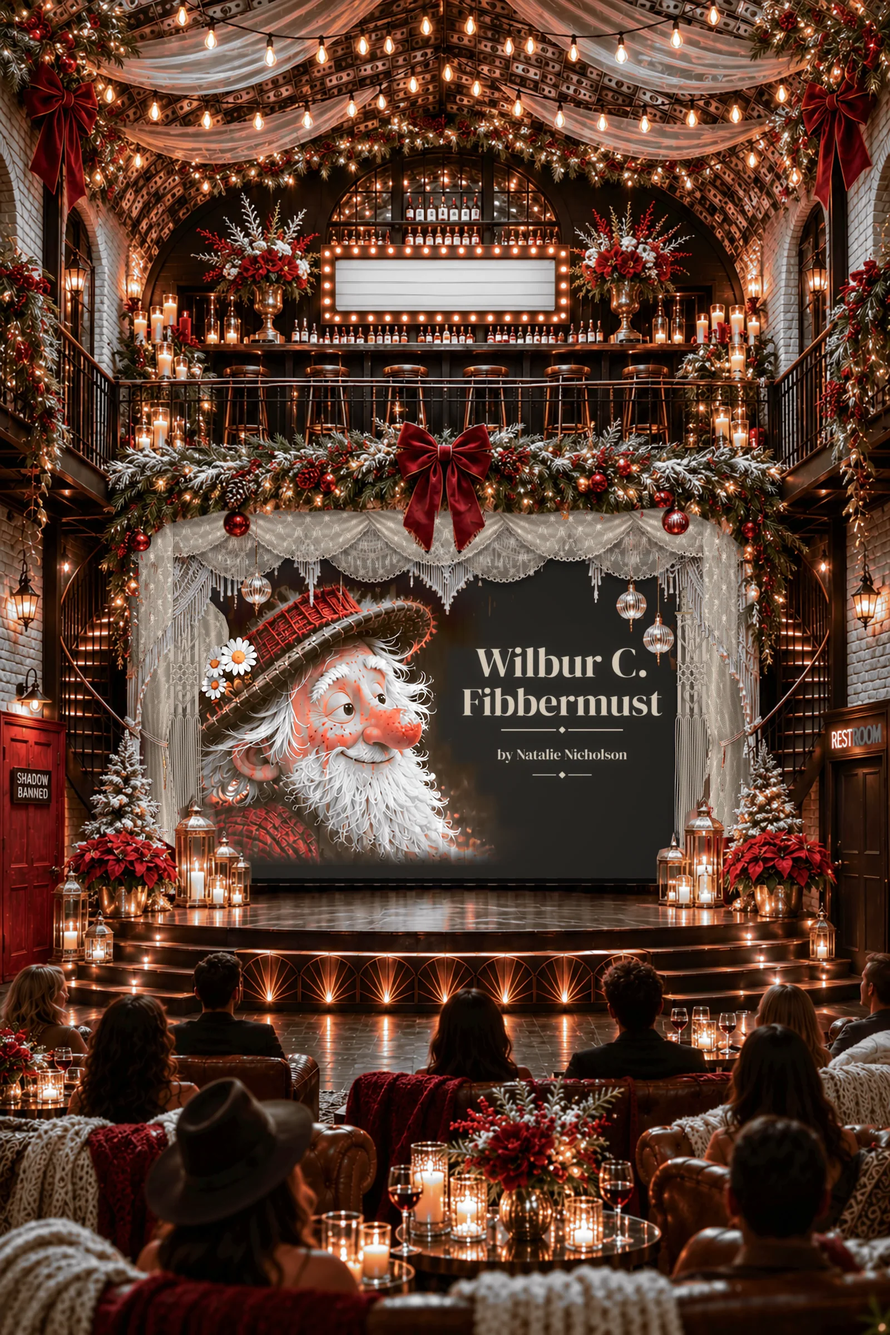
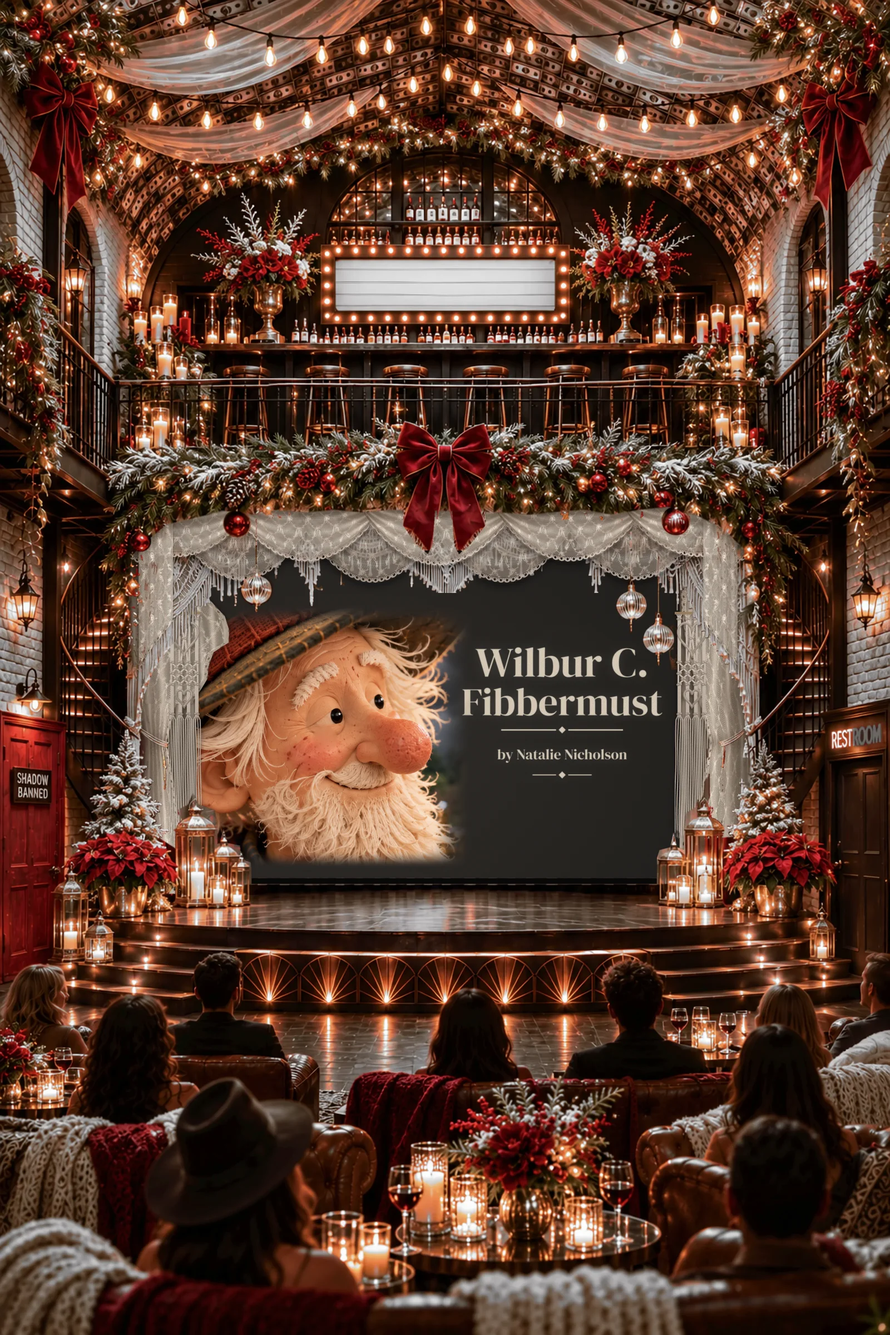
THE SPEAK: the film's real Wilbur on the theater screen (clay still, old framing, lace kept)

Changed region(s): [[0.2188, 0.4375, 0.5625, 0.6562]]

diff --git a/speakeasy/index.html b/speakeasy/index.html
@@ -429,7 +429,8 @@ dialog.pop::backdrop { background: transparent; }
 <p class="cue label" id="pcue" aria-hidden="true">Walk the passage</p>
 
 <!-- 2 · THE HALL, THEATER MODE (Nov 21, holiday render v2): a cinema screen under the valance, Natalie Nicholson's film on it.
-     The picture is hall-theater-*.webp (made by tools/speak-faces/theater_hall.py, then dressed in lace by lace_stage.py, Nov 22);
+     The picture is hall-theater-*.webp (made by tools/speak-faces/theater_hall.py, then dressed in lace by lace_stage.py, Nov 22;
+     the film's real Wilbur put on the screen by wilbur_screen.py, Nov 23);
      the podcast's picture, hall-*.webp, is kept to switch back.
      Everything placed on it (lamps, marquee board, neon, the spots) is in percentages of the picture, measured on it. -->
 <main class="hall" id="room-hall" hidden aria-label="THE SPEAK, in theater mode, dressed for the holidays: an underground hall under a brick vault papered in banknotes, swagged with cream muslin, strung with Edison bulbs and garlands of pine, with big red velvet bows. Up on the balcony, the bar with its stools, bottles and candles, the marquee above it. Along the balcony rail, a garland of frosted pine with red baubles, pinecones, tiny lights and a great red bow; under it, two tiers of cream lace swags with scalloped edges, lace tails falling down both corners, the fringe of a macramé valance and glass baubles hanging, cream lace drapes tied back over a soft sheer, a macramé panel of knotted hearts and long fringe lining each edge, and a cinema screen in a black frame. On the screen, a title card: a bearded old man in a straw hat with a daisy, and the title Wilbur C. Fibbermust, by Natalie Nicholson. Brass lanterns with candles at the screen's feet, little snowy Christmas trees and poinsettias either side. In front, a sunken pit: an audience in silhouette on chesterfield couches with knitted throws, around a brass table of candles and red flowers, watching. Either side of the pit, under a brass wall lamp each: at the left a crimson door with a black plaque reading SHADOW BANNED in white, at the right a black door under a neon sign reading RESTROOM, only its REST lit, flickering.">

diff --git a/tools/speak-faces/wilbur_screen.py b/tools/speak-faces/wilbur_screen.py
@@ -1,0 +1,170 @@
+"""THE SPEAK, THEATER MODE: the real Wilbur on the cinema screen (Nov 23, 2026).
+The stage designer painted their own Wilbur onto the curtain; Kathi sent a still from Natalie Nicholson's film, and
+the screen should show Wilbur exactly as he is there. Only the screen's picture changes: the title, the lace, the
+macrame, the baubles and lanterns hanging in front, and the rest of the hall are kept exactly as they are live.
+  1. the still, play button taken off (unplay.py), set where the old Wilbur sat: left of the title, his nose stopping
+     short of it, in a soft oval that fades into the same deep warm charcoal ground the screen already uses
+     (screen.py's ground, same formula and grain, so the card around him is unchanged)
+  2. the title set again on top exactly as before (title.py, project), with theater_hall.py's v2 measurements;
+     the valance's fringe, the hand-traced baubles, strings and lanterns are kept in front, as theater_hall.py did.
+     The fringe is only kept ABOVE where the old painted hat began (the thread finder also catches the old hat's
+     stitching and daisies lower down, which must go)
+  3. all of that is done on the Nov 21 picture (before the lace), and then the lace stage is laid on again exactly as
+     lace_stage.py does it (curtains.py both sides, swags.py the top), so the macrame heart panel and the sheer are
+     whole where the old daisies used to poke through. One change: curtains.py's 'daisies' zone (it kept the old
+     film's painted daisies in front of the macrame panel) is left out; the new Wilbur's daisies are off the screen,
+     and the panel hangs in front of the screen
+  4. only what this changed is taken into the live picture (the lace stage is run on the Nov 21 picture twice, with
+     and without the new Wilbur; wherever the two differ, the new one is used), so every other pixel stays live
+Run (from tools/speak-faces), with the two hall pictures taken from the repo's history:
+    git show 16b28d0:assets/img/speak/hall-theater-3200.webp > /tmp/live.webp     (Nov 22, lace: live before this)
+    git show 21b2b92:assets/img/speak/hall-theater-3200.webp > /tmp/nov21.webp    (Nov 21, before the lace)
+    python3 unplay.py originals/wilbur-still.png /tmp/wilbur-clean.png 992 629 60 845 690
+    python3 wilbur_screen.py /tmp/live.webp /tmp/nov21.webp /tmp/wilbur-clean.png out/ [grade]
+  -> out/hall-theater-wilbur-master.png and the site's three sizes, hall-theater-1600/2400/3200.webp
+WARMTH: Kathi chose the still's own colours (grade 0, Nov 23): the hall measures 11.9 by speak_grade.py's warmth
+(the rule is 5-10; this is her call, for Wilbur to look exactly like the film). Grade 0.7 would bring it to 9.6.
+"""
+import sys, os, cv2, numpy as np
+import screen, title, curtains, swags
+from speak_grade import apply as grade, warmth
+
+# theater_hall.py's v2 measurements (on the 1024 x 1536 render)
+V2 = dict(title_box=(520, 735, 790, 975),
+          title_lines=[(560, 700, 708, 742), (522, 745, 742, 797), (512, 798, 776, 856), (528, 852, 760, 879),
+                       (556, 881, 730, 916), (580, 914, 704, 953)],
+          screen_rect=(226, 640, 782, 1010), valance=770, clear=(255, 712, 760),
+          sides=[[(130, 600), (255, 600), (250, 700), (232, 780), (225, 870), (130, 870)],
+                 [(770, 600), (900, 600), (900, 890), (800, 890), (785, 780), (778, 700)]],
+          front=[('poly', [(222, 913), (229, 926), (247, 932), (250, 954), (250, 1046), (200, 1046), (200, 954), (204, 932), (216, 926)]),
+                 ('poly', [(257, 954), (262, 970), (276, 973), (277, 985), (277, 1045), (238, 1045), (238, 985), (245, 973), (253, 970)]),
+                 ('poly', [(277, 979), (281, 990), (288, 992), (289, 999), (289, 1043), (263, 1043), (263, 999), (266, 992), (274, 990)]),
+                 ('poly', [(810, 913), (816, 927), (830, 935), (831, 954), (831, 1046), (787, 1046), (787, 954), (790, 935), (804, 927)]),
+                 ('poly', [(775, 958), (779, 975), (788, 978), (789, 987), (789, 1045), (756, 1045), (756, 987), (759, 978), (771, 975)]),
+                 ('poly', [(775, 1003), (797, 1003), (797, 1045), (775, 1045)]),
+                 ('circle', (295, 677.5, 19)), ('poly', [(291, 648), (299, 648), (299, 661), (291, 661)]),
+                 ('line', (295, 598, 295, 651, 1.4)), ('line', (295, 695, 295, 703, 2)),
+                 ('circle', (726, 695, 19)), ('poly', [(722, 666), (730, 666), (730, 679), (722, 679)]),
+                 ('line', (726, 612, 726, 670, 1.4)), ('line', (726, 712, 726, 727, 2.2)),
+                 ('circle', (757.5, 735, 19)), ('poly', [(754, 704), (762, 704), (762, 717), (754, 717)]),
+                 ('line', (757.5, 640, 757.5, 707, 1.4)), ('line', (757.5, 752, 757.5, 765, 2.2))],
+          not_front=[(624, 628, 646, 714)], vignette=(396, 850, 235, 200), pic_end=1000)
+title.BOX, title.LINES = V2['title_box'], V2['title_lines']
+screen.RECT, screen.VALANCE, screen.CLEAR, screen.SIDES = V2['screen_rect'], V2['valance'], V2['clear'], V2['sides']
+screen.FRONT, screen.NOT_FRONT, screen.VIG, screen.PIC_END = V2['front'], V2['not_front'], V2['vignette'], V2['pic_end']
+
+# WHERE WILBUR SITS: the painted Wilbur's framing, kept (Kathi: "the framing was right"): hat at the top left, his
+# face where the painted face was, the full beard and his red knit shoulder running down to the screen's foot.
+# The still (the wider frame, 1984 x 1260): his nose tip is at x 1495, his near eye at y 520.
+STILL_NOSE_X, STILL_EYE_Y = 1495, 520
+K = 0.245           # render pixels per still pixel
+NOSE_X = 497        # his nose tip on the render, just short of the title (which starts at about 530)
+EYE_Y = 823         # his eye, level with the painted face's; the hat starts where the painted hat did, the beard and shoulder run past the foot
+OVAL = None         # None = the painted Wilbur's own oval (screen.VIG: centre 396, 850, radii 235 x 200)
+EDGE = 16           # the still's left and right edges fade out over this many render px
+EDGE_TOP = 36       # its top edge (through the hat) fades more gently, like the top of a portrait vignette
+TITLE_CLEAR = (497, 542)   # Wilbur fades out between these x (render px), clear of the title
+
+live_p, nov21_p, still_p, outdir = sys.argv[1:5]
+GRADE = float(sys.argv[5]) if len(sys.argv) > 5 else 0.0   # 0 = Wilbur exactly as the still; ~0.9 = the room's white
+                                                            # balance (speak_grade.py) on him, bringing the hall under 10
+os.makedirs(outdir, exist_ok=True)
+live = cv2.imread(live_p); nov21 = cv2.imread(nov21_p); still = cv2.imread(still_p)
+if GRADE:
+    still = cv2.cvtColor(np.clip(grade(cv2.cvtColor(still, cv2.COLOR_BGR2LAB).astype(np.float32), GRADE), 0, 255).astype(np.uint8), cv2.COLOR_LAB2BGR)
+still = still.astype(np.float32)
+s = live.shape[1] / 1024
+x0, y0, x1, y1 = [int(v * s) for v in screen.RECT]
+h, w = y1 - y0, x1 - x0
+yy, xx = np.mgrid[0:h, 0:w].astype(np.float32)
+rx_, ry_ = xx / s + screen.RECT[0], yy / s + screen.RECT[1]          # each screen pixel in render coordinates
+
+# 1a. the ground: screen.py's card() formula, untouched
+cx, cy, rx, ry = screen.VIG[0] * s - x0, screen.VIG[1] * s - y0, screen.VIG[2] * s, screen.VIG[3] * s
+g = 30 + 16 * np.exp(-(((xx - cx) / (rx * 1.6)) ** 2 + ((yy - cy) / (ry * 1.5)) ** 2))
+ground = np.stack([g * 0.86, g * 0.93, g * 1.0], -1)
+ground += np.random.default_rng(3).normal(0, 1.3, ground.shape)
+
+# 1b. Wilbur: where each screen pixel falls on the still
+left = NOSE_X - STILL_NOSE_X * K
+top = EYE_Y - STILL_EYE_Y * K
+mapx = ((rx_ - left) / K).astype(np.float32)
+mapy = ((ry_ - top) / K).astype(np.float32)
+small = cv2.resize(still, None, fx=K * s, fy=K * s, interpolation=cv2.INTER_AREA)       # shrink first: sharp, no shimmer
+pic = cv2.remap(small, mapx * K * s, mapy * K * s, cv2.INTER_CUBIC, borderMode=cv2.BORDER_REPLICATE)
+# his oval: the painted Wilbur's (screen.card's formula), unless OVAL gives another
+ox_, oy_, orx, ory = screen.VIG if OVAL is None else OVAL
+d = np.sqrt(((rx_ - ox_) / orx) ** 2 + ((ry_ - oy_) / ory) ** 2)
+m = np.clip((1.12 - d) / 0.42, 0, 1); m = m * m * (3 - 2 * m)
+# the still's own edges (its foot is below the screen's, where screen.PIC_END fades the picture out as before)
+Ws, Hs = still.shape[1] * K, still.shape[0] * K
+def ramp(v): v = np.clip(v, 0, 1); return v * v * (3 - 2 * v)
+m *= ramp((rx_ - left) / EDGE) * ramp((left + Ws - rx_) / EDGE) * ramp((ry_ - top) / EDGE_TOP) * ramp((top + Hs - ry_) / EDGE)
+m *= ramp((TITLE_CLEAR[1] - rx_) / (TITLE_CLEAR[1] - TITLE_CLEAR[0]))
+m *= ramp(((screen.PIC_END) - ry_) / 22)
+card = ground * (1 - m[..., None]) + pic * m[..., None]
+
+# 2. on the Nov 21 picture: the new card, the title, and what hangs in front of the screen
+pre = nov21.astype(np.float32).copy()
+pre[y0:y1, x0:x1] = card
+pre = title.project(np.clip(pre, 0, 255).astype(np.uint8), s)
+fr = np.zeros(live.shape[:2], np.float32)
+for kind, v in screen.FRONT:
+    if kind == 'poly': cv2.fillPoly(fr, [(np.array(v, np.float32) * s).astype(np.int32)], 1, cv2.LINE_AA)
+    elif kind == 'line': cv2.line(fr, (int(v[0] * s), int(v[1] * s)), (int(v[2] * s), int(v[3] * s)), 1, max(1, int(v[4] * s)) + 2, cv2.LINE_AA)
+    elif kind == 'circle':
+        c = np.zeros_like(fr); cv2.circle(c, (int(v[0] * s), int(v[1] * s)), int(v[2] * s) + 2, 1, -1, cv2.LINE_AA)
+        fr = np.maximum(fr, c)
+fr = cv2.GaussianBlur(fr, (0, 0), 1.0)
+th = screen.threads(nov21, s)
+Y = np.arange(live.shape[0], dtype=np.float32)[:, None] / s
+X = np.arange(live.shape[1], dtype=np.float32)[None, :] / s
+fringe_end = np.where(X < 380, 697, 682)          # the fringe's lowest tips; the old hat began just below them
+th = th * (Y < fringe_end) + th * (X > 770)       # (the right-hand macrame has no Wilbur behind it: kept whole)
+# and fringe hangs from the valance: near its tips, keep only thread that joins up with thread higher up (the old
+# hat's feathery top, just under the tips, is loose scraps)
+tb_ = (th > 0.3).astype(np.uint8)
+n_, lab_c = cv2.connectedComponents(tb_)
+high = np.unique(lab_c[(Y < 662).repeat(live.shape[1], 1) & (tb_ > 0)])
+hangs = np.isin(lab_c, high[high > 0])
+th = th * np.where((Y >= 662) & (X < 770) & ~hangs, 0, 1)
+keep = np.clip(np.maximum(fr, th), 0, 1)
+inside = np.zeros(live.shape[:2], np.float32); inside[y0:y1, x0:x1] = 1
+keep = 1 - inside * (1 - keep)
+pre = (nov21.astype(np.float32) * keep[..., None] + pre.astype(np.float32) * (1 - keep[..., None]))
+pre = np.clip(pre, 0, 255).astype(np.uint8)
+
+# 3. the lace stage, on the Nov 21 picture as it was (A: should match live) and with the new Wilbur (B)
+def lace_stage(img, daisies):
+    img = img.copy()
+    curtains.rng = np.random.default_rng(7)                               # (each run draws the same grain)
+    zl = dict(curtains.ZONES_L)
+    if not daisies: zl.pop('daisies', None)
+    keep_zl = curtains.ZONES_L; curtains.ZONES_L = zl
+    curtains.side(img, False); curtains.side(img, True); swags.top(img)
+    curtains.ZONES_L = keep_zl
+    return img
+A = lace_stage(nov21, True)
+B = lace_stage(pre, False)
+print('lace stage re-run vs live, outside the screen (mean difference, 0-255):',
+      round(float(np.abs(A.astype(np.int16) - live.astype(np.int16))[:y0 - 300].mean()), 2))
+
+# 4. only the changed part goes into the live picture
+ch = (np.abs(A.astype(np.int16) - B.astype(np.int16)).max(2) > 2).astype(np.uint8)
+ch = cv2.dilate(ch, np.ones((9, 9), np.uint8))
+w_ = cv2.GaussianBlur(ch.astype(np.float32), (0, 0), 2.0)
+out = np.clip(live.astype(np.float32) * (1 - w_[..., None]) + B.astype(np.float32) * w_[..., None], 0, 255).astype(np.uint8)
+keep = 1 - w_
+cv2.imwrite(os.path.join(outdir, 'hall-theater-wilbur-master.png'), out)
+cv2.imwrite(os.path.join(outdir, 'keep-mask.png'), (keep * 255).astype(np.uint8))
+for W_ in (1600, 2400, 3200):
+    r = out if W_ == 3200 else cv2.resize(out, (W_, W_ * 3 // 2), interpolation=cv2.INTER_AREA)
+    cv2.imwrite(os.path.join(outdir, f'hall-theater-{W_}.webp'), r, [cv2.IMWRITE_WEBP_QUALITY, 84])
+# how much of the title area changed (it should be ~nothing: same title, same ground)
+tb = [int(v * s) for v in title.BOX]
+dd = np.abs(out.astype(np.int16) - live.astype(np.int16)).max(2)
+print('title area: share of pixels changed by more than 12:', round(float((dd[tb[1]:tb[3], int(560 * s):tb[2]] > 12).mean()), 4))
+print('outside the screen changed:', int((dd[:y0 - 40] > 0).sum() + (dd[y1 + 40:] > 0).sum()), 'pixels')
+print('the hall\'s warmth: was', round(warmth(cv2.cvtColor(live, cv2.COLOR_BGR2LAB).astype(np.float32)), 1),
+      'now', round(warmth(cv2.cvtColor(out, cv2.COLOR_BGR2LAB).astype(np.float32)), 1), '(the rule: 5-10)')
+for f in sorted(os.listdir(outdir)): print(f, os.path.getsize(os.path.join(outdir, f)) // 1024, 'KB')

diff --git a/tools/speak-faces/unplay.py b/tools/speak-faces/unplay.py
@@ -1,0 +1,76 @@
+"""Takes the video player's play button off the Wilbur still (it was a screenshot of the film's thumbnail).
+The hole is filled the way a retoucher would, in three layers:
+  1. the base colour: a smooth fill that matches the skin all round the hole's edge (a Laplace / 'soap film' fill)
+  2. (the crease under his eye runs just above the button: measured, nothing hidden needs redrawing)
+  3. the skin's grain: fine noise as strong as his cheek's own, and a few of his real freckles stamped in
+Run: python3 unplay.py still.png still-clean.png [cx cy r srcx srcy]
+     (the button's centre and radius, and the top-left of an 80 x 80 patch of plain cheek; defaults: the first still)"""
+import sys, cv2, numpy as np
+
+CX, CY, R = 1102, 695, 77            # the play button (centre and radius, plus its soft edge), on the 2204 x 1288 still
+SRC_LOW = (985, 750)                 # top-left of a blush-cheek patch: how strong the skin's grain is
+P = 80                               # patch size
+
+if len(sys.argv) > 3:
+    CX, CY, R, SX, SY = map(int, sys.argv[3:8]); SRC_LOW = (SX, SY)
+im = cv2.imread(sys.argv[1]).astype(np.float32)
+H, W = im.shape[:2]
+x0, y0, x1, y1 = CX - R - 4, CY - R - 4, CX + R + 5, CY + R + 5
+roi = im[y0:y1, x0:x1].copy()
+h, w = roi.shape[:2]
+yy, xx = np.mgrid[0:h, 0:w].astype(np.float32)
+d = np.hypot(xx - (CX - x0), yy - (CY - y0))
+hole = d <= R
+
+# 1. the base: start from a blurred guess, then relax every hole pixel toward the mean of its neighbours
+base = roi.copy()
+guess = cv2.inpaint(roi.astype(np.uint8), hole.astype(np.uint8) * 255, 25, cv2.INPAINT_TELEA).astype(np.float32)
+base[hole] = cv2.GaussianBlur(guess, (0, 0), 12)[hole]
+# the known edge, smoothed a little so the fill doesn't copy single noisy pixels inward
+edge = cv2.GaussianBlur(roi, (0, 0), 2.0)
+base[~hole] = edge[~hole]
+for _ in range(4000):
+    nb = (np.roll(base, 1, 0) + np.roll(base, -1, 0) + np.roll(base, 1, 1) + np.roll(base, -1, 1)) / 4
+    base[hole] = nb[hole]
+
+# 2. (the crease under his eye runs just ABOVE the button, so nothing there needs redrawing)
+
+# 3. the grain: fine noise as strong as the cheek's own, then a few of his real freckles stamped in
+rng = np.random.default_rng(11)
+skin = im[SRC_LOW[1]:SRC_LOW[1] + P, SRC_LOW[0]:SRC_LOW[0] + P]
+hp = skin - cv2.GaussianBlur(skin, (0, 0), 3.5)
+sd = float(np.median(np.abs(hp - np.median(hp))) * 1.4826)          # the skin's grain, ignoring its freckles
+noise = cv2.GaussianBlur(rng.normal(0, 1, (h, w)).astype(np.float32), (0, 0), 1.1)
+noise *= 0.6 * sd / max(noise.std(), 1e-6)          # clay is smooth: a softer grain than the raw cheek
+fill = base + noise[..., None]
+# freckles: dark spots in the cheek just around the hole, each lifted with its own little surround
+labf = cv2.cvtColor(np.clip(im, 0, 255).astype(np.uint8), cv2.COLOR_BGR2LAB).astype(np.float32)
+Lf, af = labf[..., 0], labf[..., 1]
+dark = Lf - cv2.GaussianBlur(Lf, (0, 0), 5)
+red = af - cv2.GaussianBlur(af, (0, 0), 5)
+yyA, xxA = np.mgrid[0:H, 0:W].astype(np.float32)
+ring = (np.abs(xxA - CX) < 170) & (np.abs(yyA - CY) < 150) & (np.hypot(xxA - CX, yyA - CY) > R + 12)
+blob = ((dark < -16) & (red > 2) & ring).astype(np.uint8)
+n, lab_, st, cen = cv2.connectedComponentsWithStats(blob)
+spots = []
+for i in range(1, n):                                    # a freckle is a small, round, red-brown dot (not a wrinkle line)
+    x, y, bw, bh, area = st[i]
+    if 5 <= area <= 50 and max(bw, bh) <= 1.7 * min(bw, bh) and area >= 0.5 * bw * bh and 8 < x < W - 9 and 8 < y < H - 9:
+        spots.append((int(cen[i][0]), int(cen[i][1]), i))
+print(len(spots), 'freckles found around the hole')
+k = 6
+places = [(int(dx * R / 77), int(dy * R / 77)) for dx, dy in [(-30, 30), (18, 44), (-6, 60), (42, 18), (-50, 10)]]
+for i, (dx, dy) in enumerate(places):
+    sx, sy, lid = spots[(i * 3) % len(spots)]
+    patch = im[sy - k:sy + k + 1, sx - k:sx + k + 1]
+    det = patch - cv2.GaussianBlur(patch, (0, 0), 3)
+    wgt = (lab_[sy - k:sy + k + 1, sx - k:sx + k + 1] == lid).astype(np.float32)   # only that freckle's own pixels
+    wgt = cv2.GaussianBlur(cv2.dilate(wgt, np.ones((3, 3))), (0, 0), 0.8)[..., None]
+    py, px = CY - y0 + dy, CX - x0 + dx
+    fill[py - k:py + k + 1, px - k:px + k + 1] += det * wgt
+
+# lay the fill into the hole with a 3-pixel soft edge (the button's own edge was antialiased)
+a = np.clip((R + 1.5 - d) / 3, 0, 1)[..., None]
+out = im.copy()
+out[y0:y1, x0:x1] = roi * (1 - a) + fill * a
+cv2.imwrite(sys.argv[2], np.clip(out, 0, 255).astype(np.uint8))
